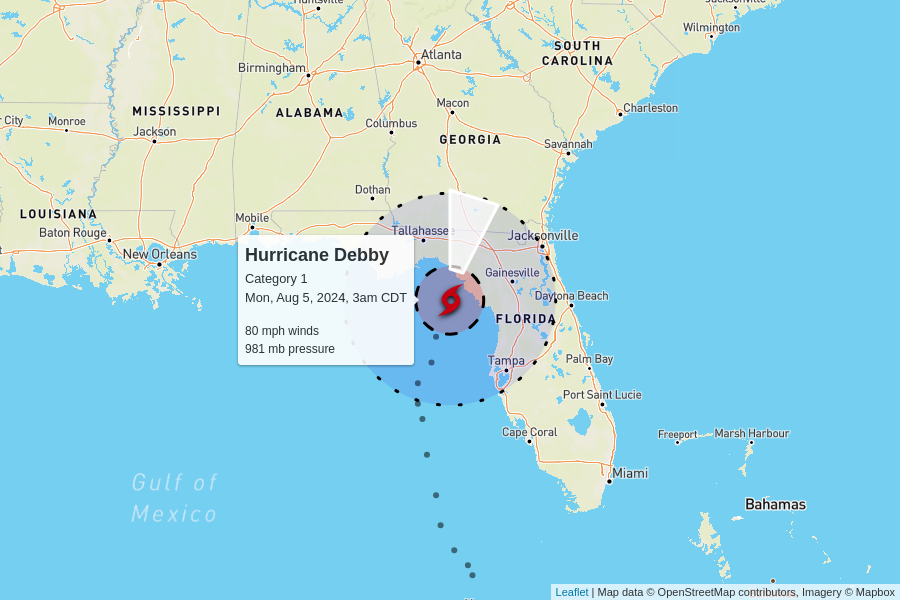
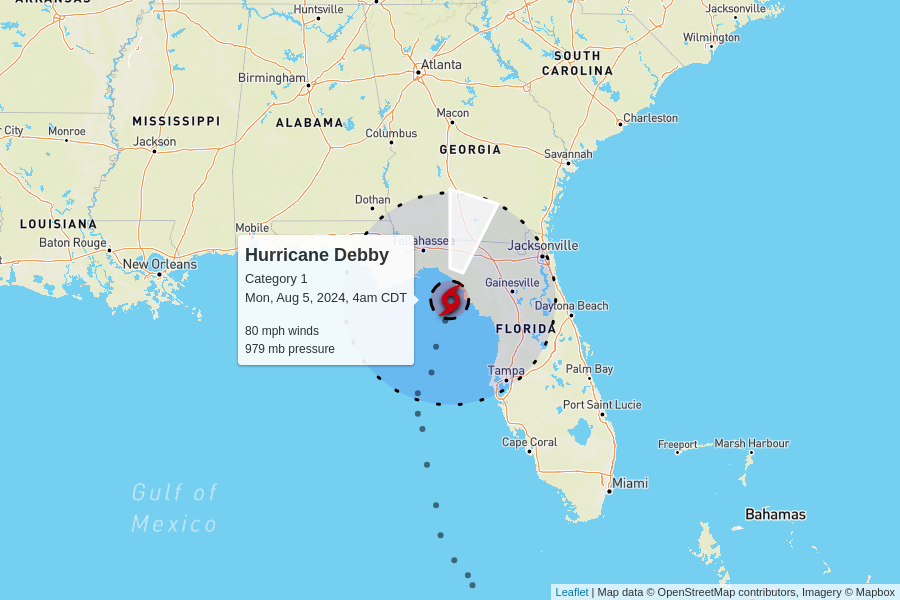
automatic update

diff --git a/docs/index.html b/docs/index.html
@@ -102,7 +102,7 @@
         <td colspan="6" class="storm category-1" >
           <h2>
             Hurricane Debby - Category 1
-            <p class="updated">last updated <span data-time>2024-08-05T08:00:00.000Z</span></p>
+            <p class="updated">last updated <span data-time>2024-08-05T09:00:00.000Z</span></p>
           </h2>
         </td>
       </tr>
@@ -118,9 +118,9 @@
       <tr>
         <td class="spacer"></td>
         <td>80 mph<br>0 mph since last update</td>
-        <td>981 mb<br>0 mb since last update</td>
+        <td>979 mb<br>-2 mb since last update</td>
         <td>
-          12 mph to the north-northeast
+          10 mph to the north-northeast
           <br/>
           <span style="display: inline-block; font-size: 1.5em; transform: rotate(15deg);">↑</span>
         </td>
